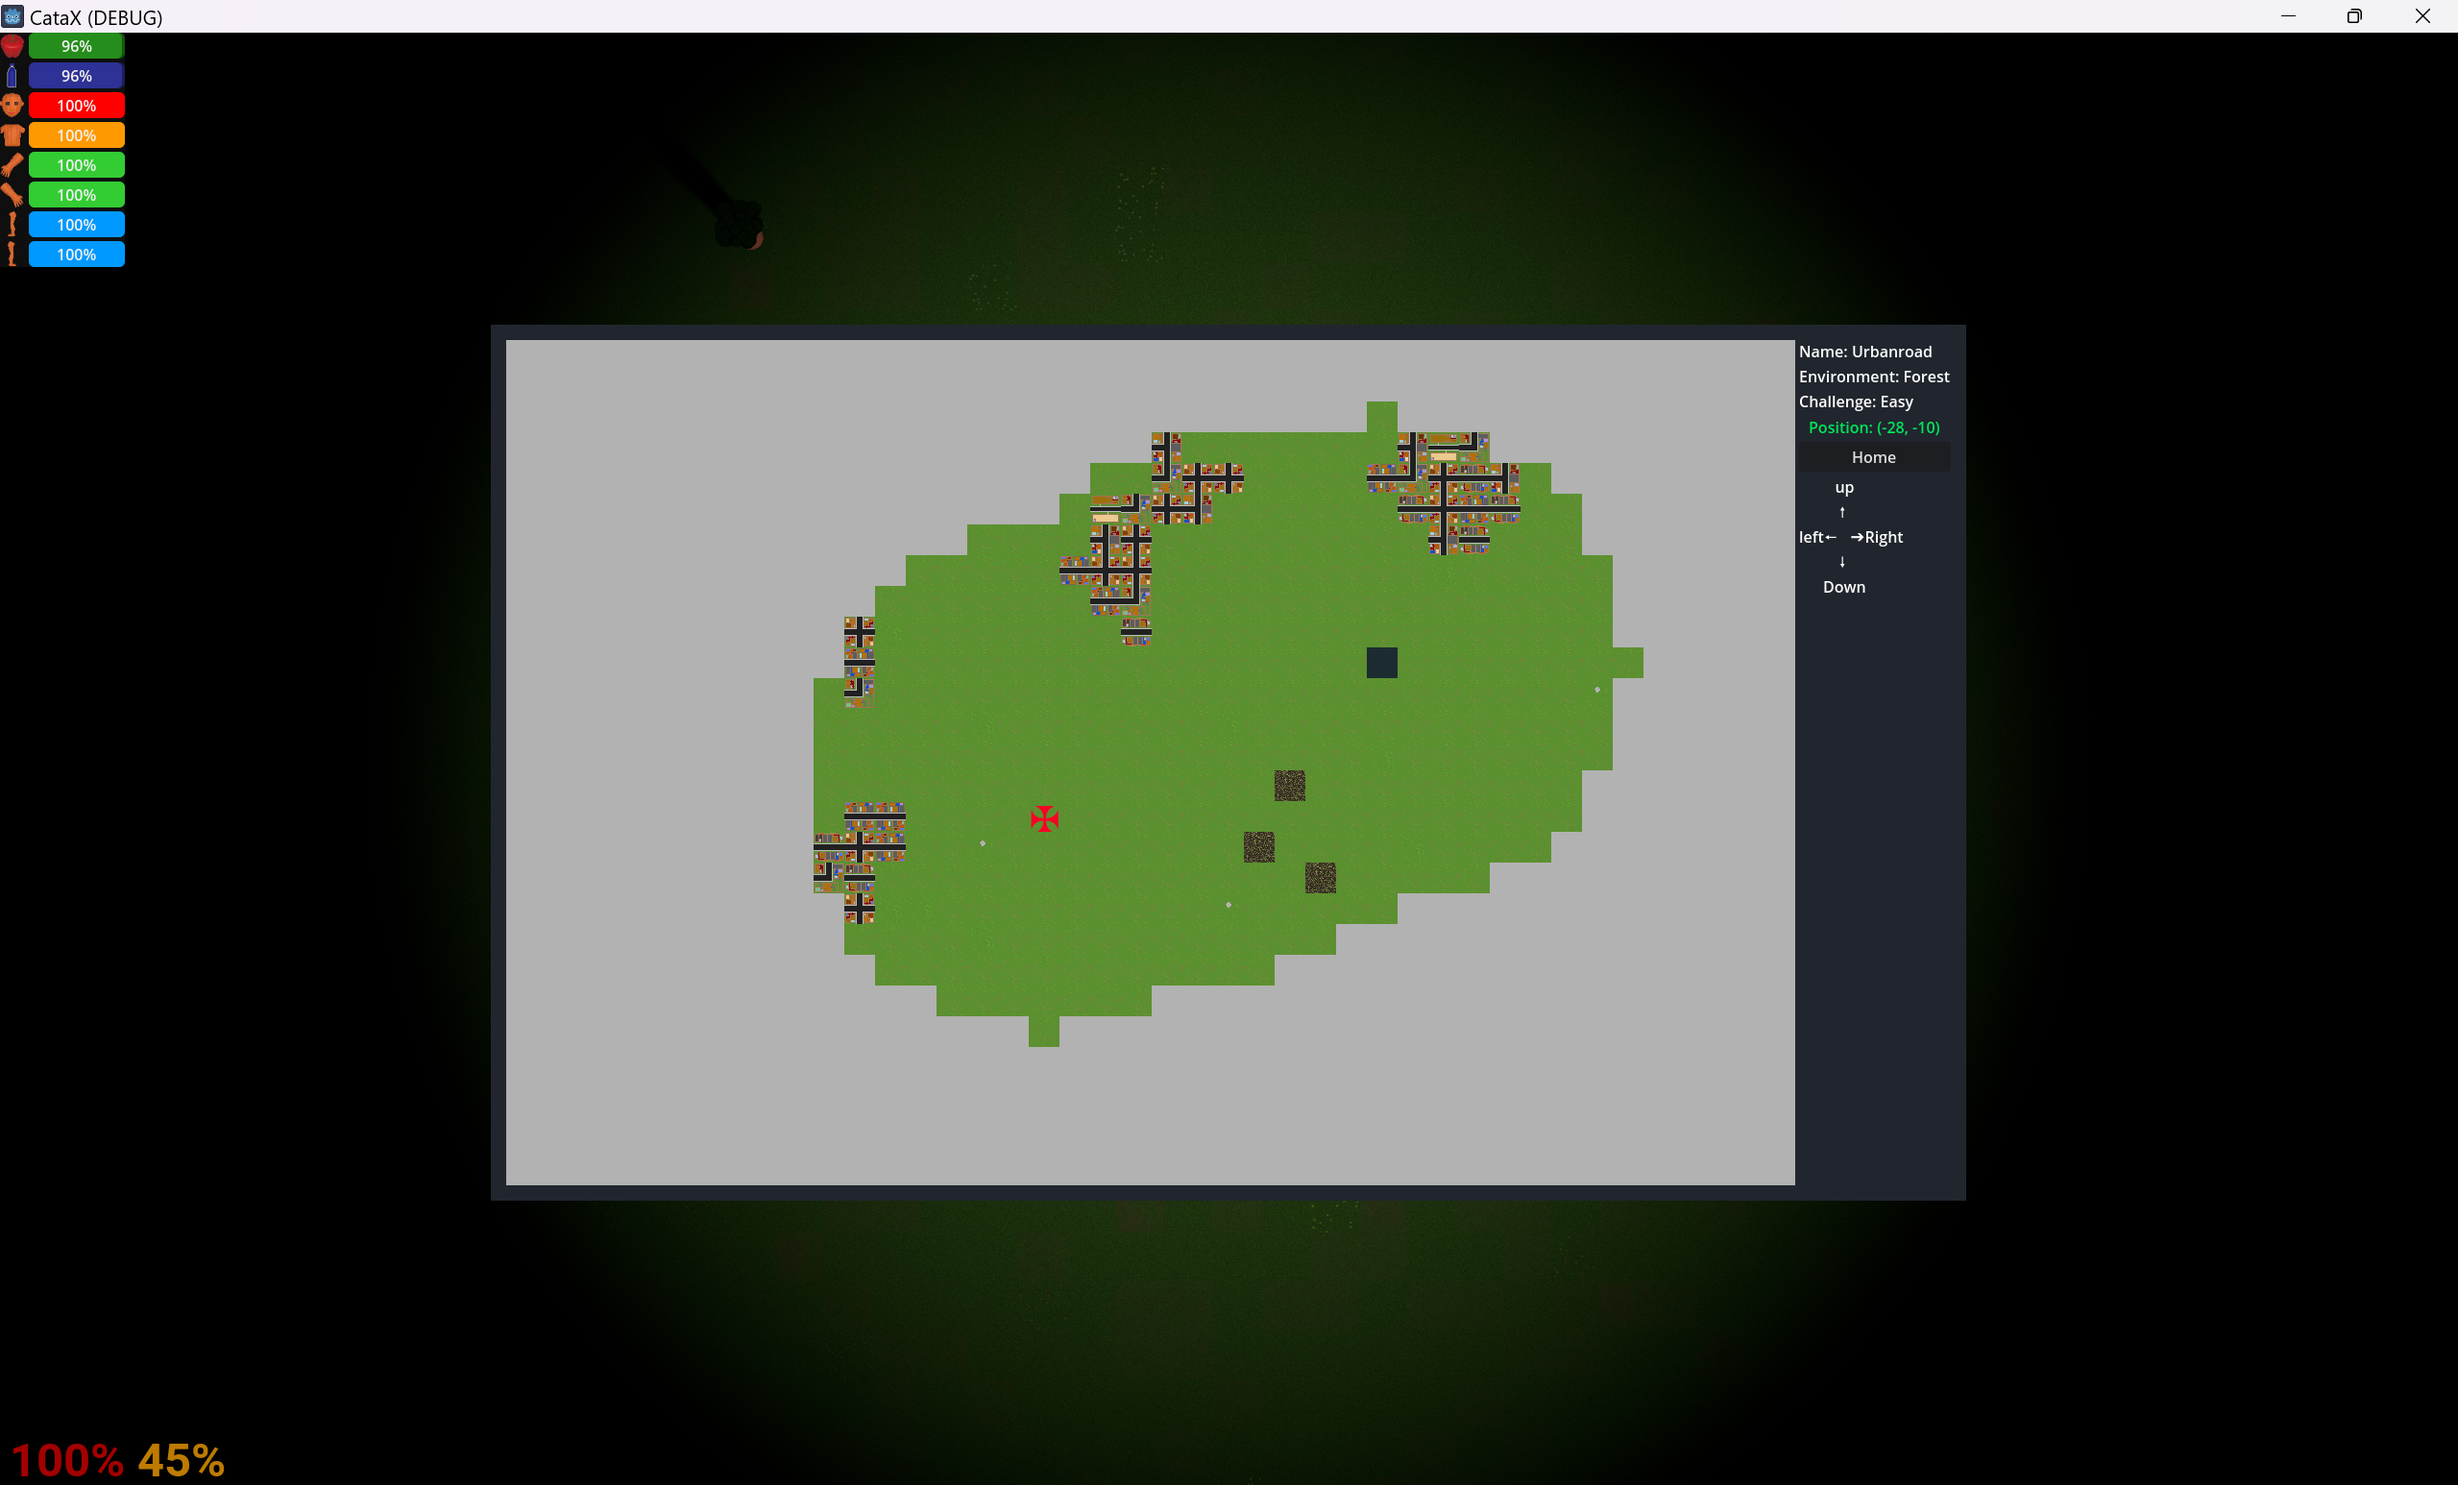
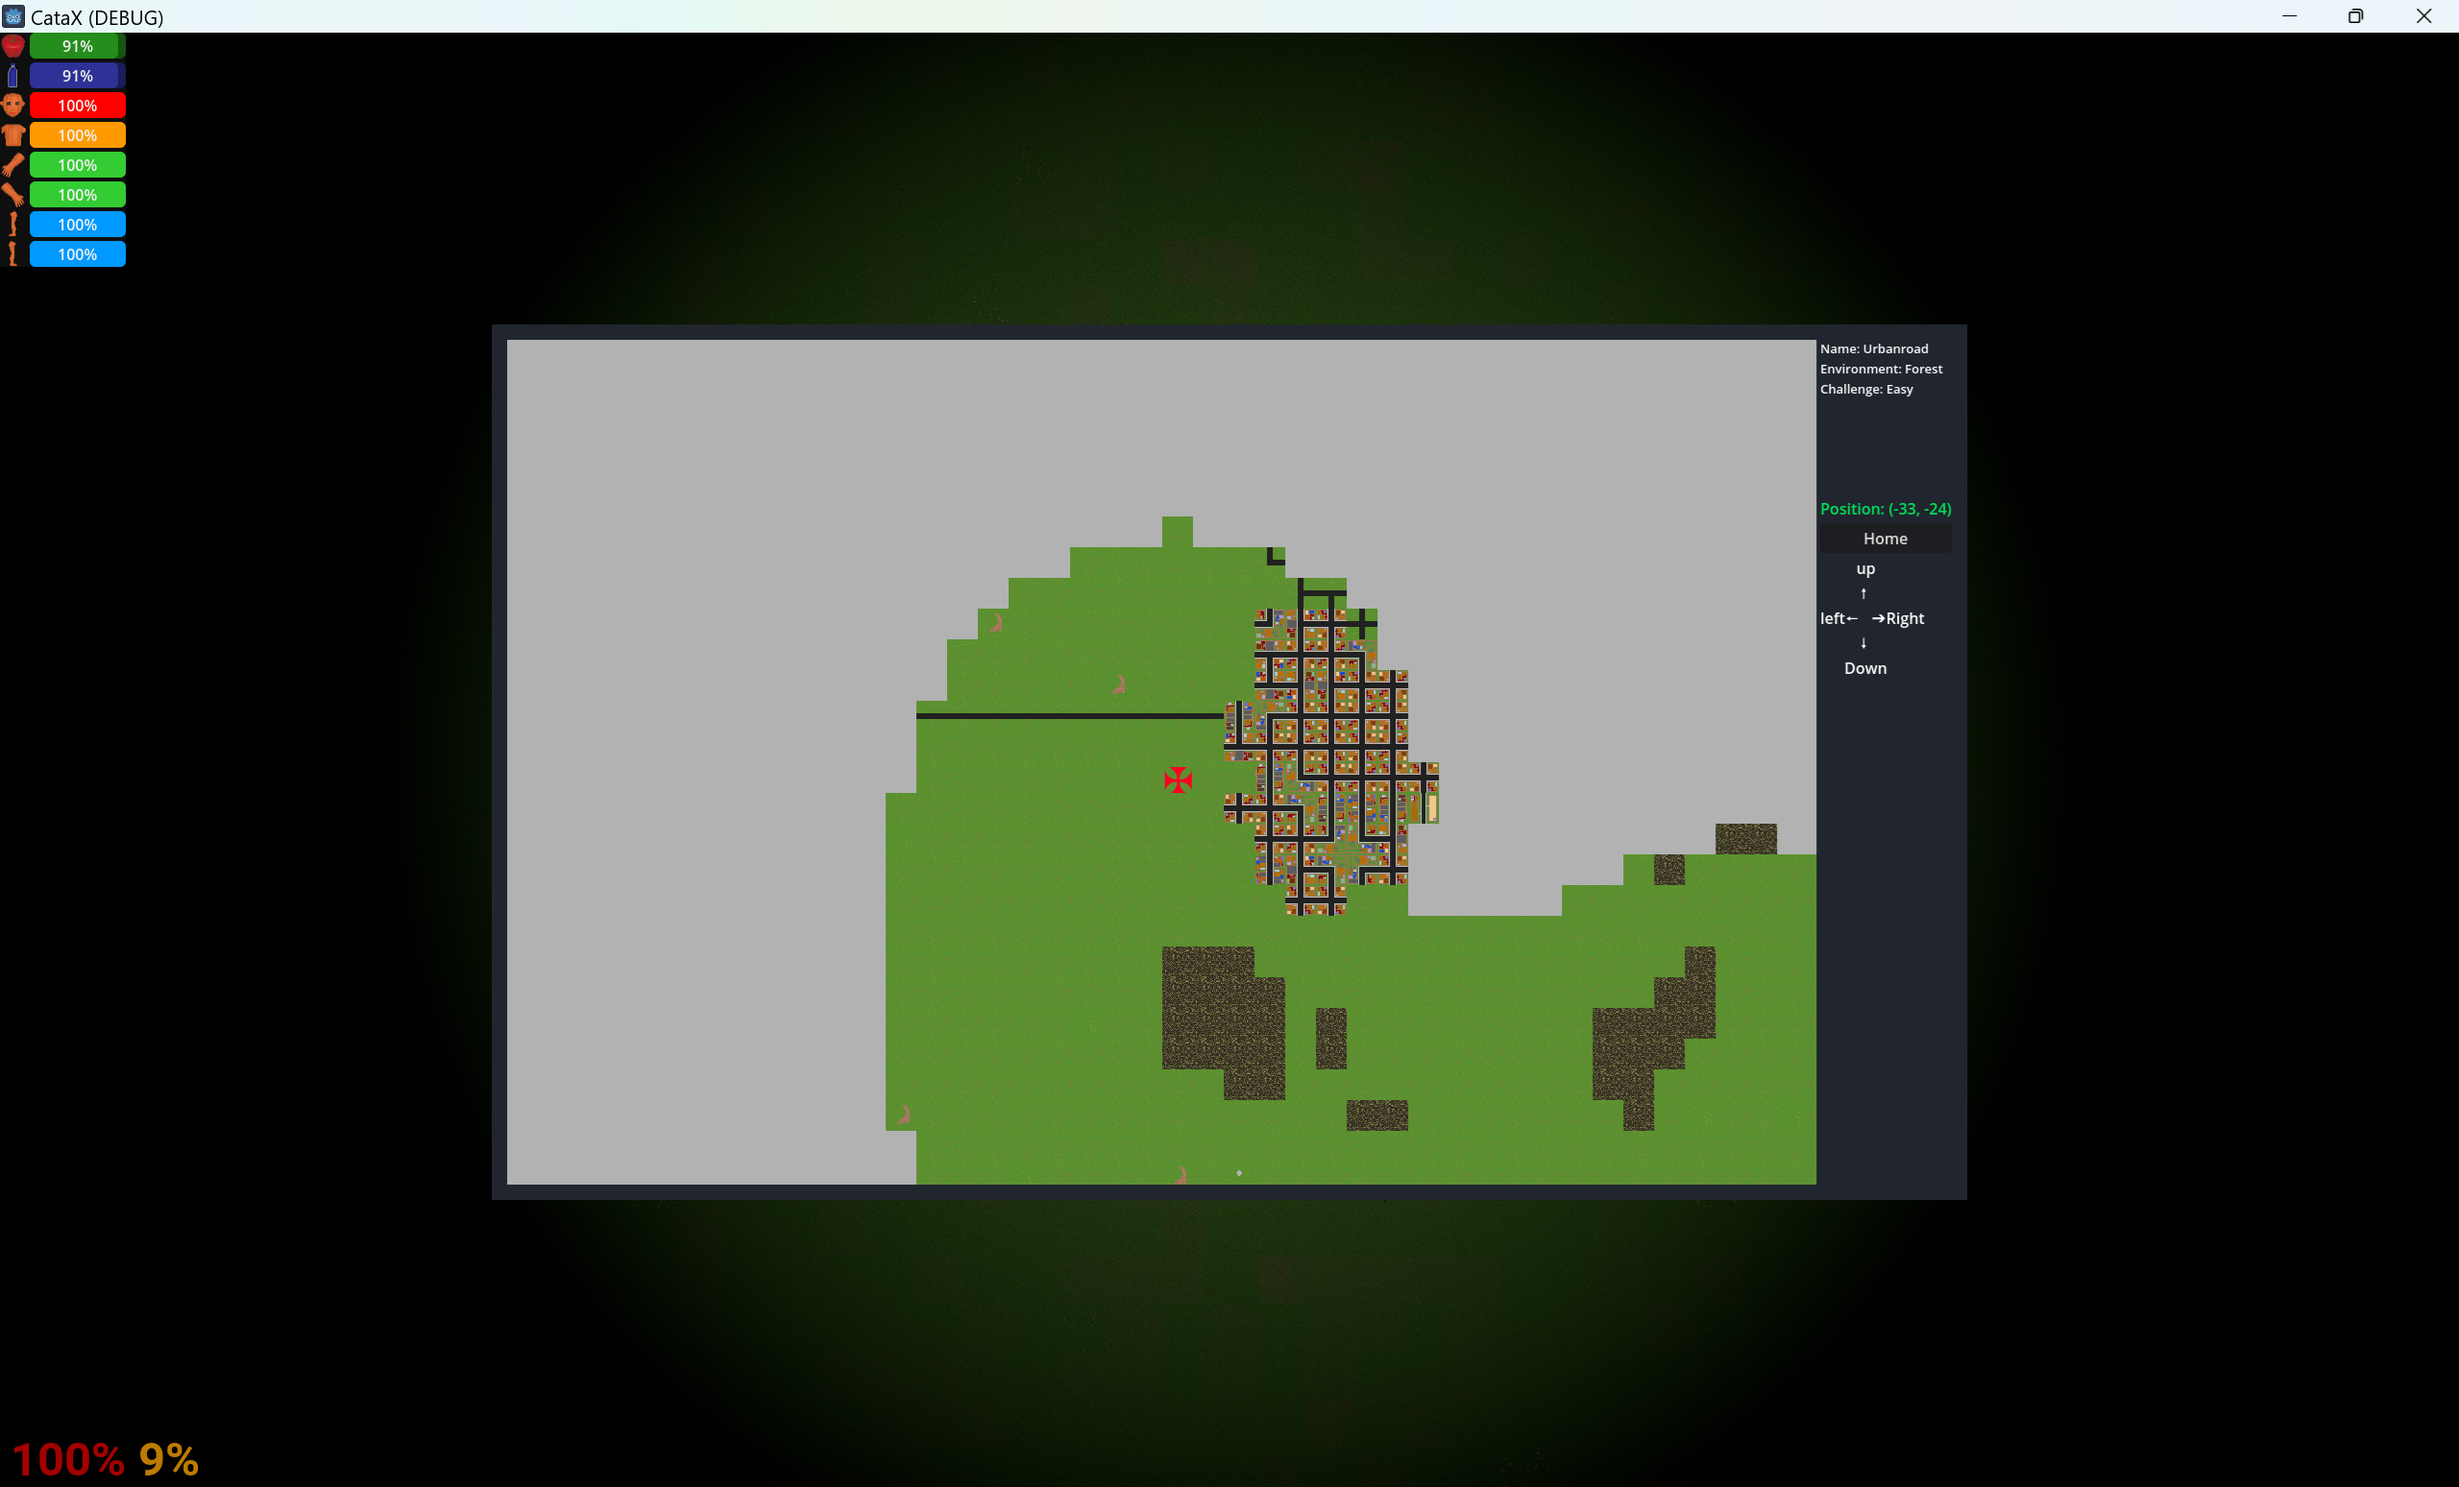
Update readme

diff --git a/README.md b/README.md
@@ -40,6 +40,9 @@ The game will create an infinite map to explore. The world is devided by regions
 
 ![Catax_overmap](Media/Catax_overmap.png)
 
+Cities and roads are generated. Explore a whole network of roads and get to know the area
+
+![Catax_overmap](Media/Catax_overmap_large.png)
 
 ### Quest journal
 Follow quests to guide your way trough this dangerous world. A quest may have multiple objectives, which will be displayed step-by-step
